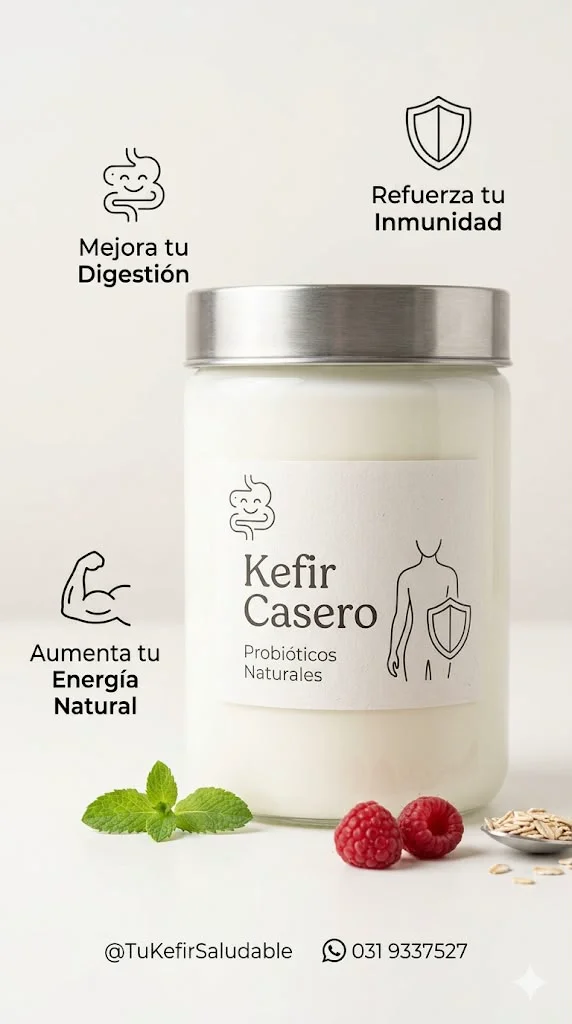
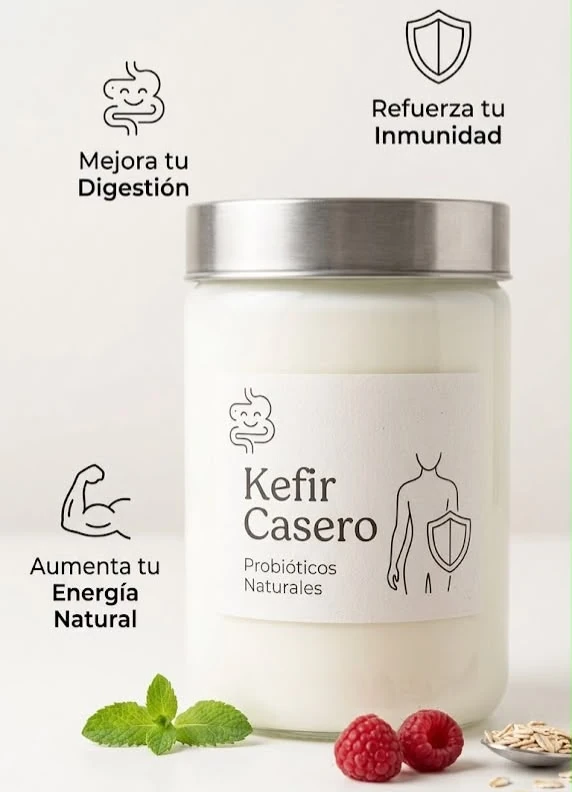
feat(home): nueva imagen del Kefir Casero

diff --git a/app/frontend/src/components/KefirPromo.tsx b/app/frontend/src/components/KefirPromo.tsx
@@ -79,7 +79,7 @@ export function KefirPromo({ whatsapp }: { whatsapp: string | null }) {
                 src="/media/site/promo-kefir.webp"
                 alt="Kefir Casero, probióticos naturales: mejora tu digestión, refuerza tu inmunidad y aumenta tu energía natural"
                 width={572}
-                height={1024}
+                height={792}
                 loading="lazy"
                 className="block h-auto w-full"
               />
